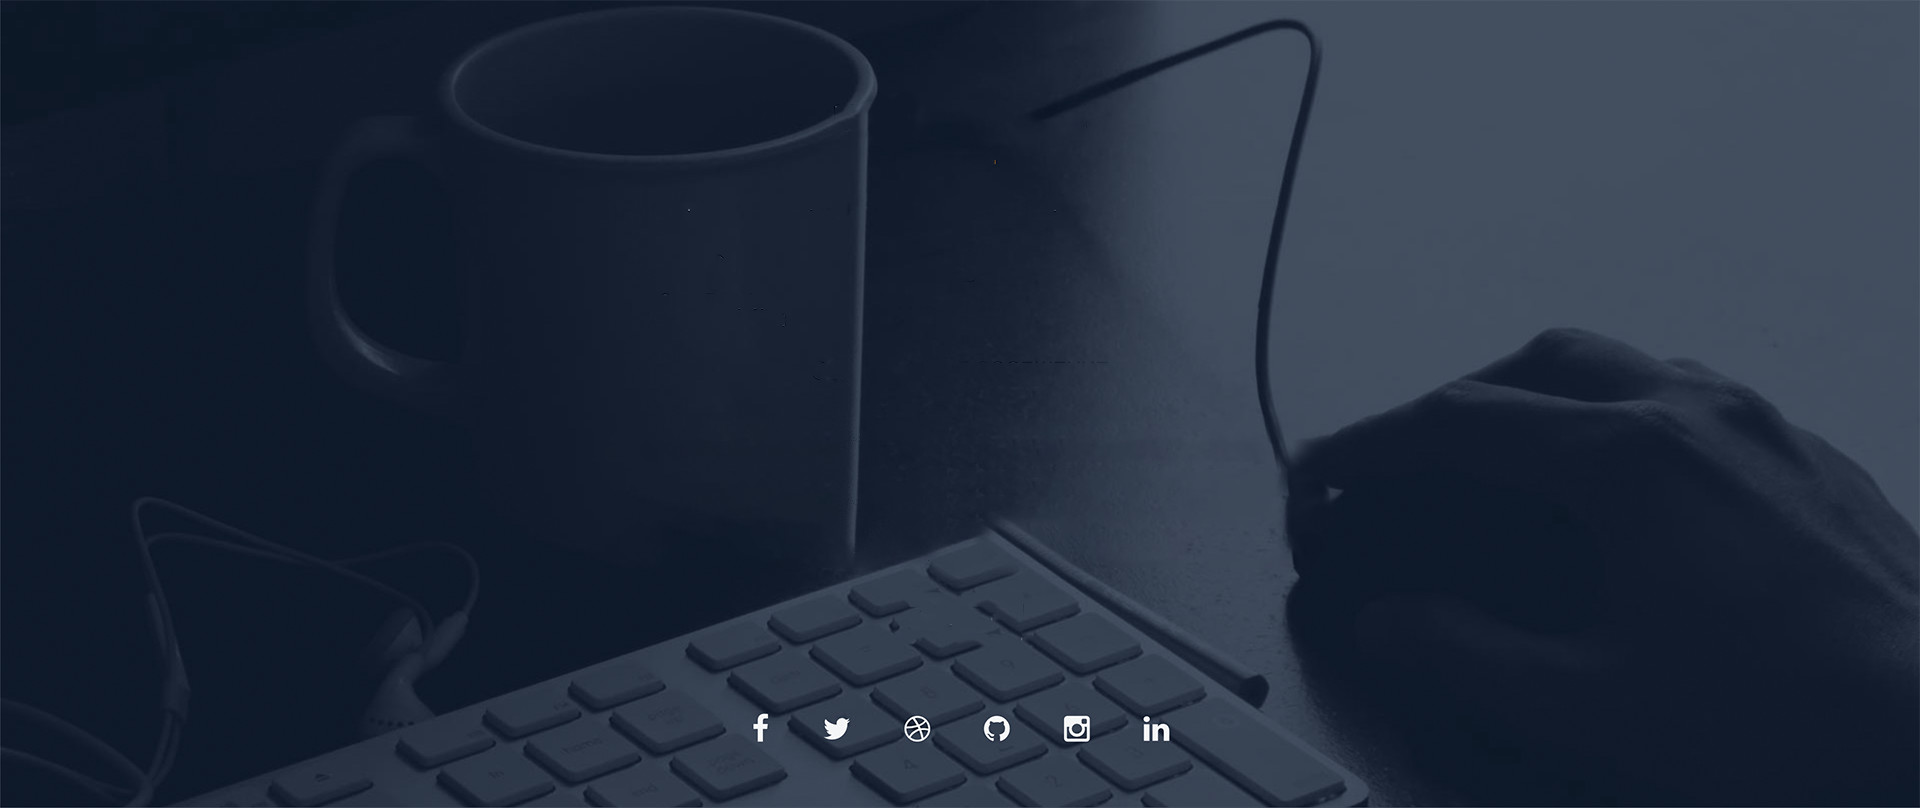
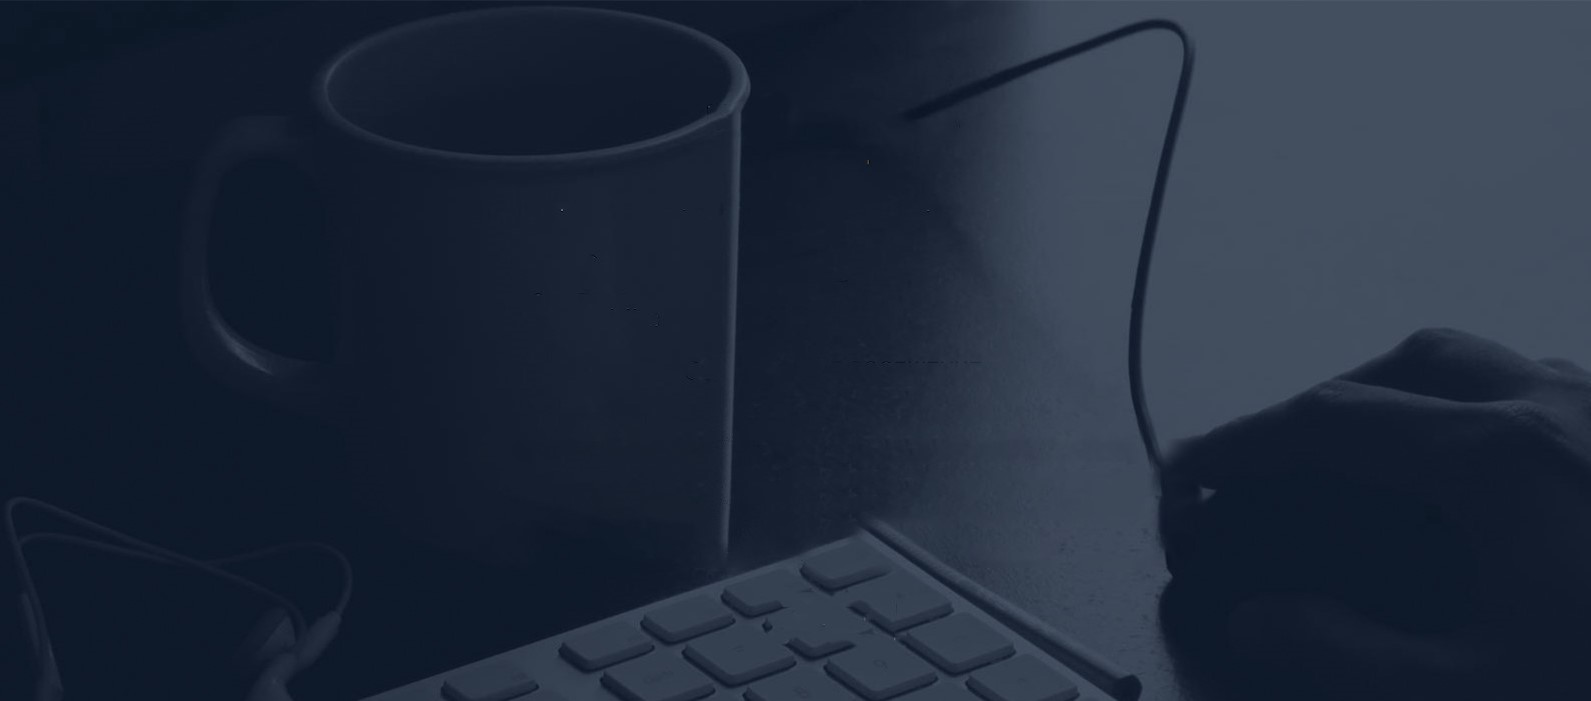
Готовое дз , урок 4

diff --git a/crs/index.html b/crs/index.html
@@ -225,7 +225,8 @@
        <img class="cherta" src="img/her1.png">
        
        <p>Lorem ipsum dolor sit amet, consectetur adipisicing elit. Reiciendis, odit!</p>
-    
+        
+        <div class="contact">
        <div class="adresse"> 
           <img class="icons2" src="img/geo.png">
           <p>Санкт-Питербург<br> Невский пр-т,11</p>
@@ -241,11 +242,57 @@
           <img class="icons2" src="img/tel%20trub.png">
            <p>8-999-999-9999</p>
        </div>
+       </div>
+      
+        <h3><b>ОТПРАВЬТЕ МНЕ СООБЩЕНИЕ</b></h3>
+        
+       <div class="info1">
        
-       <h2><b>ОТПРАВЬТЕ МНЕ СООБЩЕНИЕ</b></h2>
+           <div class="indent"> 
        <input ture="text" placeholder="Имя...">
-       <input ture="text" placeholder="Emeil...">
-       <textarea ture="text" placeholder="Сообщение..."></textarea>
+           </div>
+           
+           <div class="indent1">
+       <input ture="text1" placeholder="Emeil...">
+           </div>
+           
+           </div>
+       
+       <div class="text">
+       <textarea ture="text2" placeholder="Сообщение..."></textarea>
+       </div>
+       
+       <div class="puc">
+       <input ture="submit" value="Отправить">
+       </div>
+       
+          <div class="social">
+           
+              <div class="fs">
+               <img class="icons3" src="img/fb.png">
+           </div>
+              
+              <div class="tviter">
+              <img class="icons3" src="img/tviter.png">  
+           </div>
+              
+              <div class="miah">
+              <img class="icons3" src="img/miah.png">
+            </div>
+            
+              <div class="cot">
+              <img class="icons3" src="img/cisa.png">   
+            </div> 
+                 
+              <div class="insta">
+              <img class="icons3" src="img/inst.png">  
+            </div>
+            
+            <div class="in">
+              <img class="icons3" src="img/in.png">
+            </div>
+          </div>
+       
        </div>
        
     

diff --git a/crs/css/style.css b/crs/css/style.css
@@ -402,7 +402,7 @@ nav{
 .logo7 h2{
     color: #eeeeee;
     font-size: 30px;
-    line-height: 45px;
+    line-height: 20px;
     text-align: center;
     padding: 100px 0px 0px;
 }
@@ -413,15 +413,21 @@ nav{
 }
 
 .icons2{
-    height: 15px;
+    height: 20px;
     margin-top: 30px;
     margin-bottom: 20px;
 }
 
+
+.contact{ 
+    height: 150px;
+    margin-top: 20px;
+}
 .adresse{
-    float:left
+    float:left;
     width: 200px;
     text-align:center;
+    margin-left: 440px;
     
 }
 
@@ -437,3 +443,93 @@ nav{
     text-align:center;
     
 }
+
+.logo7 h3{
+    color: #eeeeee;
+    text-align: center;
+    font-size: 20px;
+    line-height: 15px;
+    height: 50px;
+   
+}
+
+.info1{
+    height: 10px;
+}
+
+.indent input{
+    float:left;
+    margin-left: 475px;
+    height: 20px;
+    width: 260px;
+}
+
+.indent1 input{
+    margin-left: 10px;
+    height: 20px;
+    width: 260px;
+}
+.text{
+    height: 100px;
+    margin-top: 20px;
+    margin-left: 475px;
+}
+.text textarea{
+    height: 70px;
+    width: 530px;
+}
+
+.puc{
+    height: 70px;
+    margin-left: 690px;
+    
+}
+.puc input{
+    height: 30px;
+    width: 100px;
+    text-align: center;
+    border: 3px solid #eeeeee;
+    background: none;
+    border-radius: 2px;
+    color: #6d7682;
+    font-size: 13px;
+    padding: 0px 10px;
+    display: block;
+    
+}
+
+.social{ 
+    height: 150px;
+}
+
+.icons3{
+    height: 20px;
+    margin-bottom: 20px;
+}
+
+.fs{
+   float:left; 
+   margin-left: 580px;
+}
+
+.tviter{
+   float:left;
+   margin-left: 40px;
+}
+
+.miah{
+   float:left; 
+   margin-left: 40px;
+}
+
+.cot{
+   float:left;
+   margin-left: 40px;
+}
+
+.insta{
+   float:left;
+   margin-left: 40px;
+   margin-right: 40px;
+}
+
